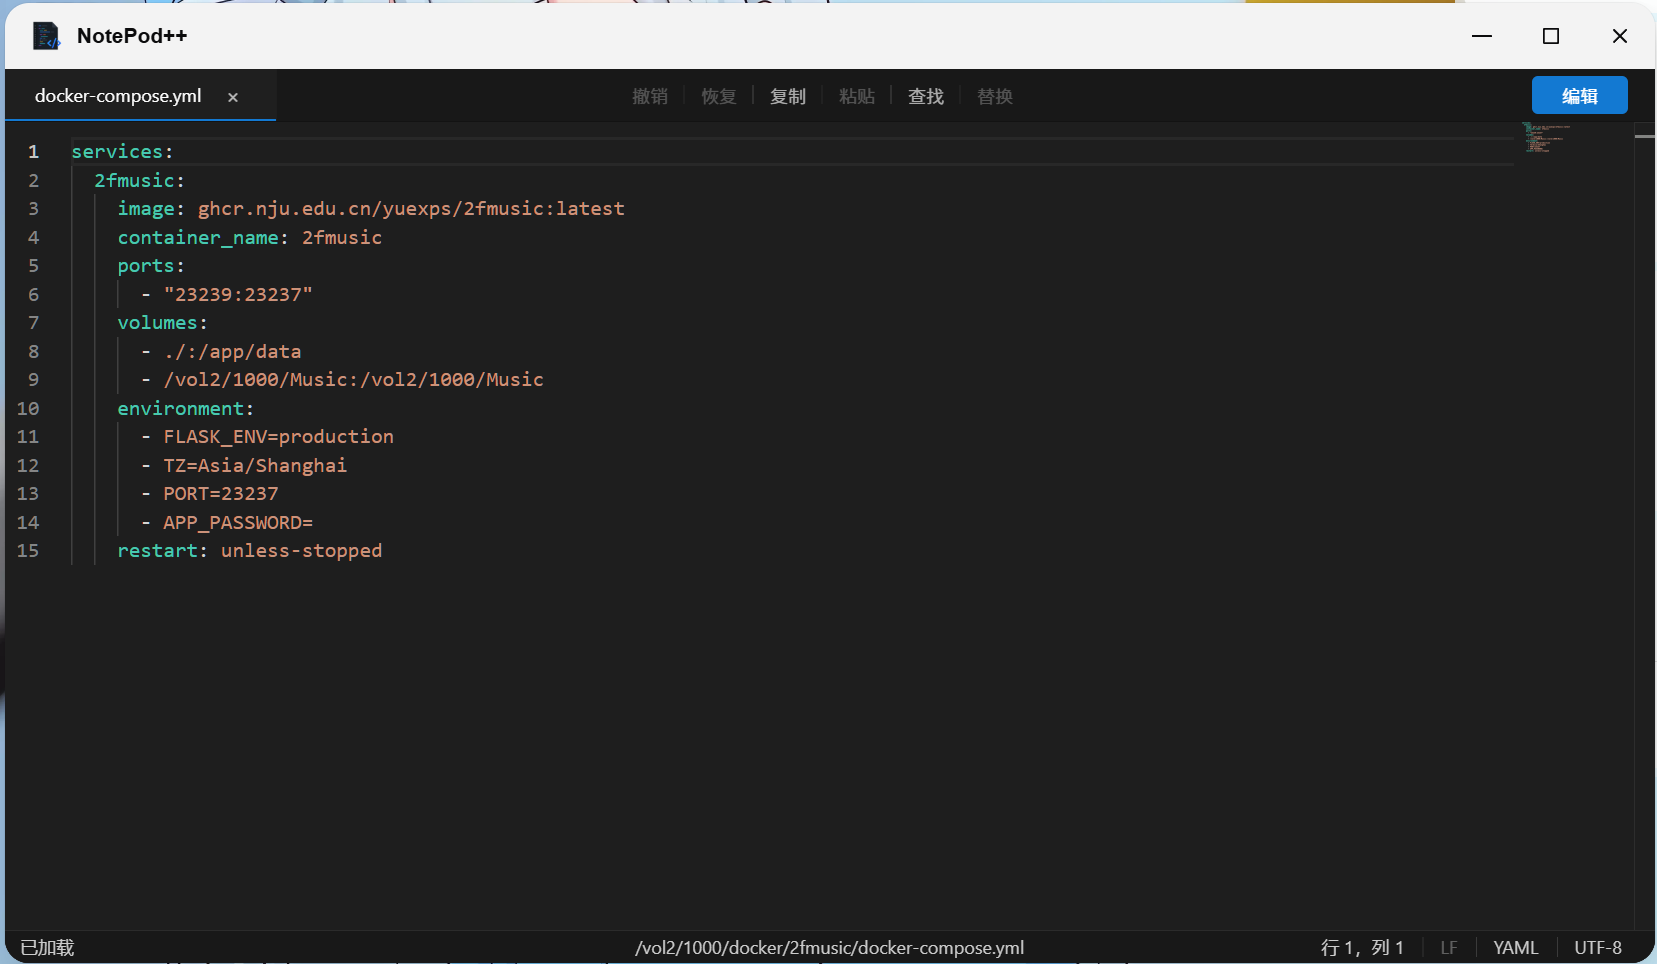
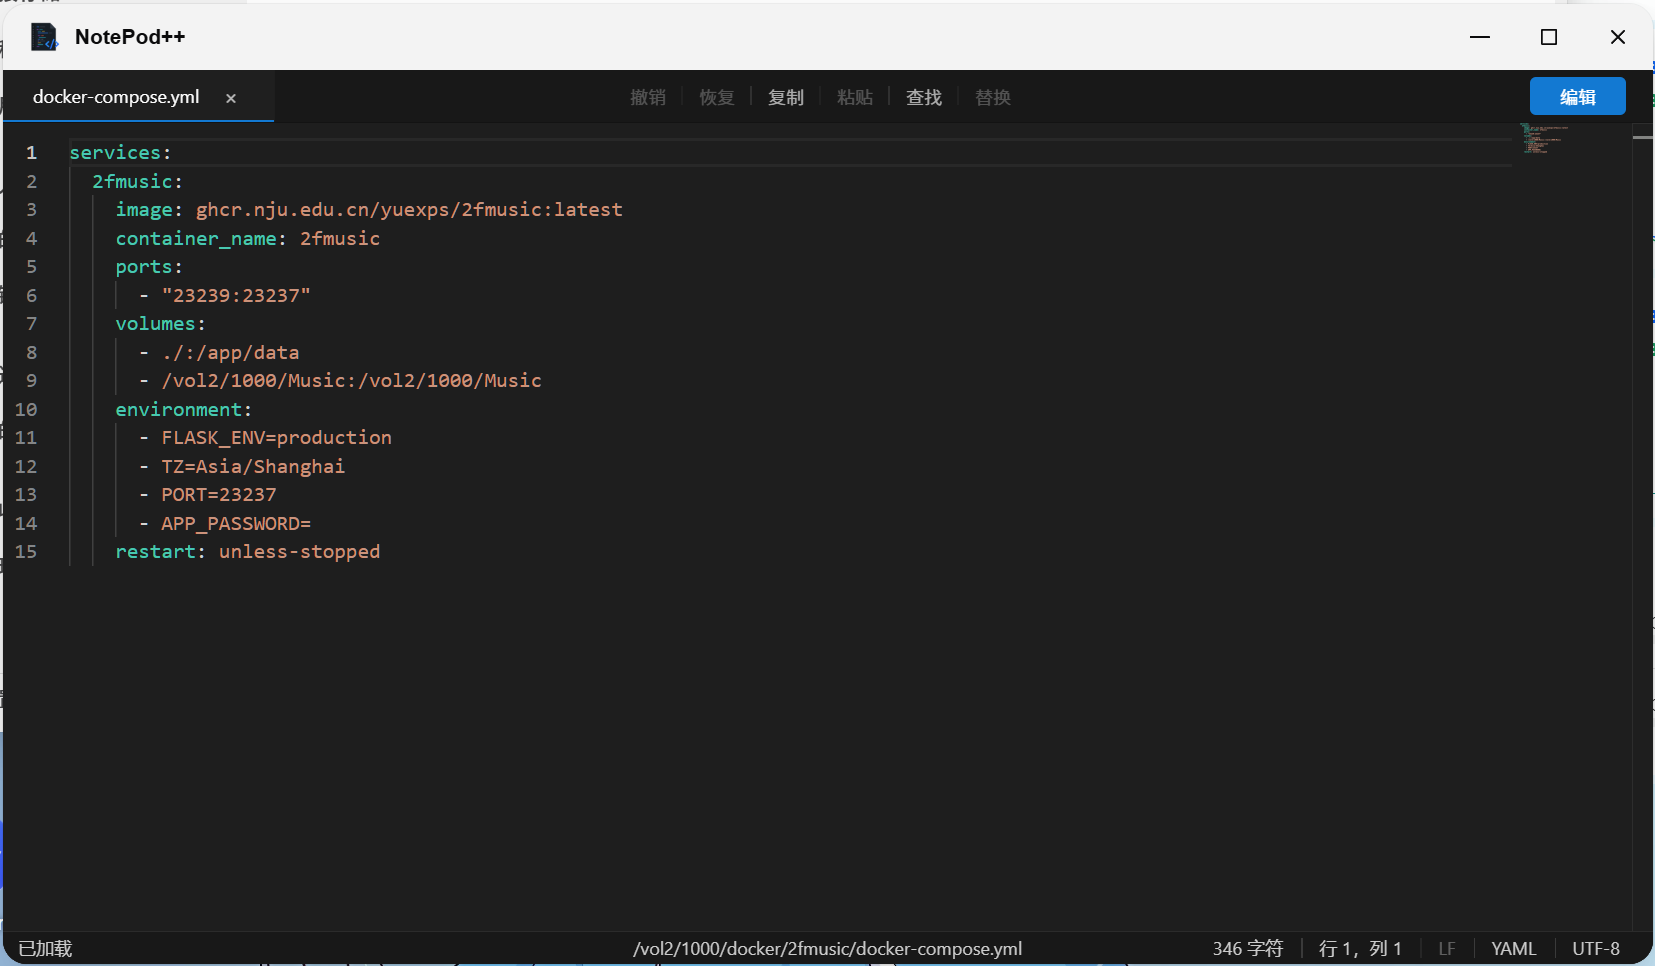
push

diff --git a/m.text.editor/README.md b/m.text.editor/README.md
@@ -6,7 +6,9 @@
 
 - **类 VS Code 视觉风格**：深色现代 UI
 - **文件管理打开**：在飞牛文件管理器内可直接使用`NotePod++`打开文件。
-- **手动路径打开**：可在欢迎页直接输入绝对路径即可打开文件。
+- **手动路径打开**：可在主页输入绝对路径打开文件。
+- **创建新文件**：在主页输入新文件绝对路径，可快速创建文件。
+- **编码自动检测**：智能检测 UTF-8, GBK, Big5, UTF-16 等常见编码，无需手动切换。
 - **全方位语法高亮**：
   - **主流开发**：JS/TS, HTML/CSS/SCSS, Go, Python, Rust, Java, C++, PHP, SQL...
   - **Web 框架**：Vue, Svelte, Astro, JSX/TSX...